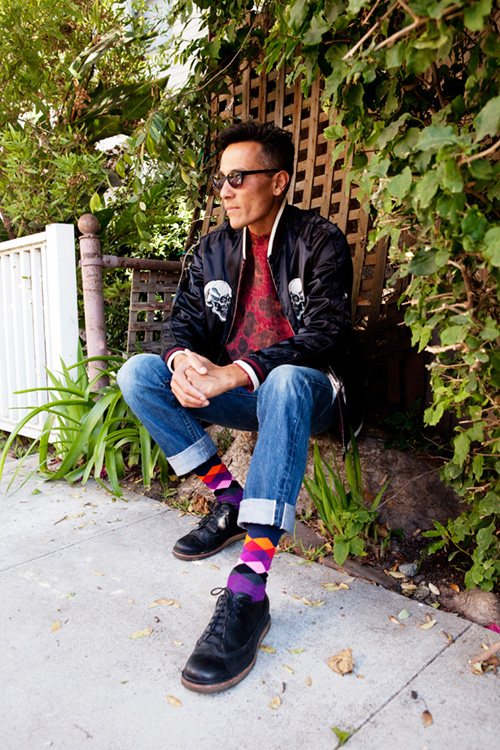
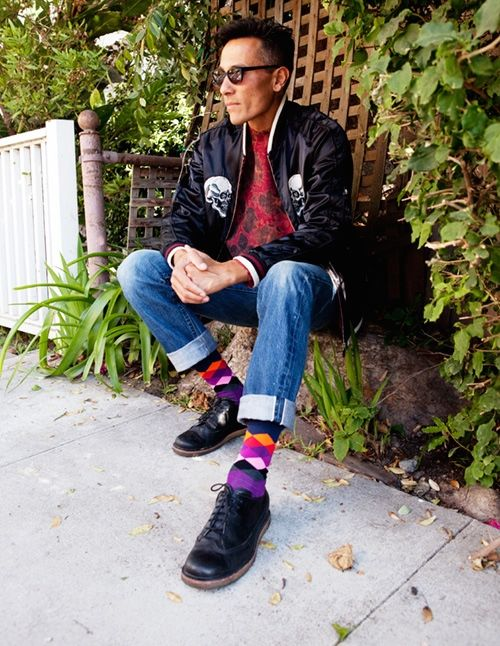
more style changes

diff --git a/app/assets/stylesheets/homepage.scss b/app/assets/stylesheets/homepage.scss
@@ -38,7 +38,7 @@ body {
 .bg7 { background-color: $orange; color: white;}
 .bg8 { background-image: image-url("sock4.png"); background-position: center; height: 300px; width: 200px; background-color: $blue; border: 5px solid $orange; margin: 20px;  }
 .bg9 { background-image: image-url("sock5.png"); background-position: center; height: 300px; width: 200px; background-color: $blue; border: 5px solid $orange; margin: 20px;  }
-.coolpic { background: image-url("Photo2.jpg") no-repeat 50% 0; background-size: cover; height: 820px; border-radius: 20px;}
+.coolpic { background: image-url("Photo2.jpg") no-repeat 50% 0; background-size: cover; height: 620px; border-radius: 20px;}
 .bg1, .bg2, .bg3, .bg4, .bg5, .bg6, .bg7 {
 	height: 125%;
 	padding: 0;
@@ -238,10 +238,12 @@ h2 {
 
 	p {
 		padding: 15px;
-		margin-top: 80px;
-		color: white;
+		font-size: 2.5em;
 		
 	}
+}
+.info {
+	font-size: 2em;
 }
 
 .circle-num {
@@ -270,6 +272,7 @@ h2 {
 
 	p {
 		width: 75%;
+		margin-top: 10px;
 		margin: auto;
 		font-size: 1.2em;
 		color: black;
@@ -277,7 +280,6 @@ h2 {
 }
 
 .sock-list {
-	margin-top: 15%;
 	height: 100%;
 	padding: 10px;
 	color: white;
@@ -285,9 +287,10 @@ h2 {
 	border-radius: 15px;
 
 	p {
-		font-size: 1.5em;
+		padding: 15px;
+		font-size: 2em;
 		text-align: left;
-
+		color: $red;
 	}
 }
 .sock1, .sock2 {

diff --git a/app/assets/stylesheets/application.css b/app/assets/stylesheets/application.css
@@ -42,6 +42,10 @@
 	.red-dot6 {
 		display: none;
 	}
+
+	.sock-dis {
+		display: none;
+	}
 	#vid-container {
 		width: 90%;
 		position: absolute;
